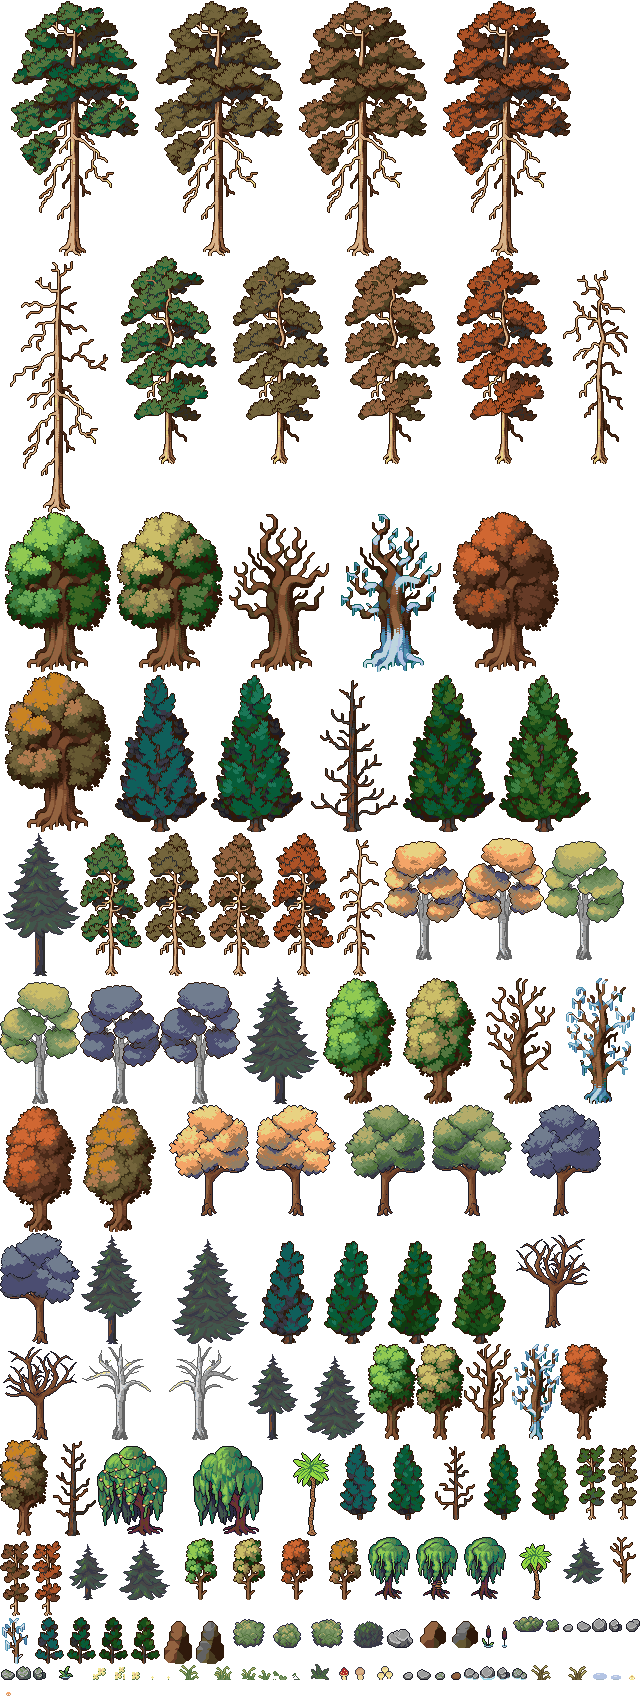
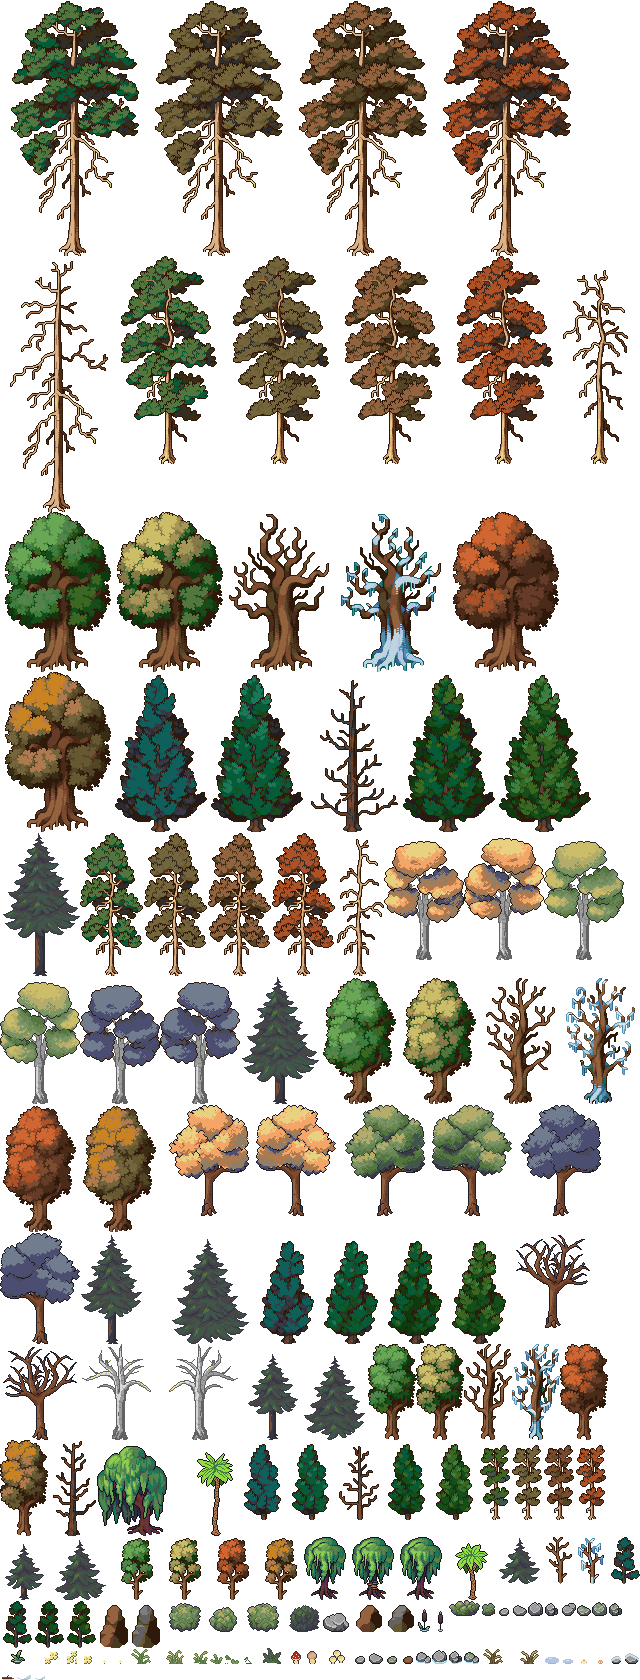
Overworld: snow details, shore-only water stones, darker broadleaf greens
- Snow: snow-capped pebbles, a fallen stick and snow mounds replace the
  dead-grass tufts; ice patches rarer.
- Water stones only within 2 tiles of land, at 1% of those tiles.
- The lantern-hung willow is out of the atlas and the wetland pool.
- Pixel Crawler's broadleaf greens go one palette step darker
  (#91ca51 -> #69a754, #69a754 -> #55834c).

diff --git a/src/render/overworld_sprites.hpp b/src/render/overworld_sprites.hpp
@@ -102,7 +102,6 @@ enum Id : int {
   PC3_S5_TAN,
   PC3_S5_RUST,
   PC3_S5_BARE,
-  WILLOW_LIT,
   WILLOW,
   WILLOW_S_A,
   WILLOW_S_B,
@@ -160,6 +159,11 @@ enum Id : int {
   DECAL_ICE_B,
   DECAL_SHELL,
   DECAL_SHELL_PINK,
+  DECAL_PEBBLE_SNOW,
+  DECAL_PEBBLES_SNOW,
+  DECAL_STICK,
+  DECAL_MOUND_A,
+  DECAL_MOUND_B,
   COUNT
 };
 
@@ -188,17 +192,17 @@ inline constexpr Frame kFrames[COUNT] = {
     {15, 61, 5, 8, 5}, // FIR_1
     {5, 77, 4, 7, 7}, // FIR_2
     {15, 84, 4, 6, 8}, // FIR_3
-    {4, 96, 3, 4, 10}, // FIR_4
+    {0, 96, 3, 4, 10}, // FIR_4
     {9, 77, 7, 7, 7}, // FIR_DARK_0
     {19, 84, 4, 6, 8}, // FIR_DARK_1
-    {7, 96, 4, 4, 10}, // FIR_DARK_2
-    {35, 96, 3, 3, 10}, // FIR_DARK_3
-    {11, 96, 3, 4, 10}, // PC1_S2_GREEN
-    {14, 96, 3, 4, 10}, // PC1_S2_TAN
-    {38, 96, 2, 3, 10}, // PC1_S2_BARE
-    {0, 101, 2, 3, 11}, // PC1_S2_FROZEN
-    {17, 96, 3, 4, 10}, // PC1_S2_ORANGE
-    {20, 96, 3, 4, 10}, // PC1_S2_AMBER
+    {3, 96, 4, 4, 10}, // FIR_DARK_2
+    {31, 96, 3, 3, 10}, // FIR_DARK_3
+    {7, 96, 3, 4, 10}, // PC1_S2_GREEN
+    {10, 96, 3, 4, 10}, // PC1_S2_TAN
+    {34, 96, 2, 3, 10}, // PC1_S2_BARE
+    {36, 96, 2, 3, 10}, // PC1_S2_FROZEN
+    {13, 96, 3, 4, 10}, // PC1_S2_ORANGE
+    {16, 96, 3, 4, 10}, // PC1_S2_AMBER
     {23, 84, 3, 6, 8}, // PC1_S3_GREEN
     {26, 84, 3, 6, 8}, // PC1_S3_TAN
     {29, 84, 3, 6, 8}, // PC1_S3_BARE
@@ -217,15 +221,15 @@ inline constexpr Frame kFrames[COUNT] = {
     {21, 32, 7, 10, 2}, // PC1_S5_FROZEN
     {28, 32, 7, 10, 2}, // PC1_S5_ORANGE
     {0, 42, 7, 10, 3}, // PC1_S5_AMBER
-    {2, 101, 2, 3, 11}, // PC2_S2_TEAL
-    {4, 101, 2, 3, 11}, // PC2_S2_TEAL_B
-    {6, 101, 2, 3, 11}, // PC2_S2_GREEN
-    {8, 101, 2, 3, 11}, // PC2_S2_GREEN_B
-    {21, 90, 3, 5, 9}, // PC2_S3_TEAL
-    {24, 90, 3, 5, 9}, // PC2_S3_TEAL_B
-    {27, 90, 3, 5, 9}, // PC2_S3_BARE
-    {30, 90, 3, 5, 9}, // PC2_S3_GREEN
-    {33, 90, 3, 5, 9}, // PC2_S3_GREEN_B
+    {38, 96, 2, 3, 10}, // PC2_S2_TEAL
+    {0, 100, 2, 3, 11}, // PC2_S2_TEAL_B
+    {2, 100, 2, 3, 11}, // PC2_S2_GREEN
+    {4, 100, 2, 3, 11}, // PC2_S2_GREEN_B
+    {15, 90, 3, 5, 9}, // PC2_S3_TEAL
+    {18, 90, 3, 5, 9}, // PC2_S3_TEAL_B
+    {21, 90, 3, 5, 9}, // PC2_S3_BARE
+    {24, 90, 3, 5, 9}, // PC2_S3_GREEN
+    {27, 90, 3, 5, 9}, // PC2_S3_GREEN_B
     {16, 77, 4, 7, 7}, // PC2_S4_TEAL
     {20, 77, 4, 7, 7}, // PC2_S4_TEAL_B
     {3, 90, 3, 6, 9}, // PC2_S4_BARE
@@ -236,10 +240,10 @@ inline constexpr Frame kFrames[COUNT] = {
     {19, 42, 6, 10, 3}, // PC2_S5_BARE
     {25, 42, 6, 10, 3}, // PC2_S5_GREEN
     {31, 42, 6, 10, 3}, // PC2_S5_GREEN_B
-    {36, 90, 2, 5, 9}, // PC3_S2_GREEN
-    {38, 90, 2, 5, 9}, // PC3_S2_OLIVE
-    {0, 96, 2, 5, 10}, // PC3_S2_TAN
-    {2, 96, 2, 5, 10}, // PC3_S2_RUST
+    {30, 90, 2, 5, 9}, // PC3_S2_GREEN
+    {32, 90, 2, 5, 9}, // PC3_S2_OLIVE
+    {34, 90, 2, 5, 9}, // PC3_S2_TAN
+    {36, 90, 2, 5, 9}, // PC3_S2_RUST
     {5, 52, 4, 9, 4}, // PC3_S3_GREEN
     {9, 52, 4, 9, 4}, // PC3_S3_OLIVE
     {13, 52, 4, 9, 4}, // PC3_S3_TAN
@@ -255,64 +259,68 @@ inline constexpr Frame kFrames[COUNT] = {
     {18, 0, 9, 16, 0}, // PC3_S5_TAN
     {27, 0, 9, 16, 0}, // PC3_S5_RUST
     {0, 16, 7, 16, 1}, // PC3_S5_BARE
-    {6, 90, 6, 6, 9}, // WILLOW_LIT
-    {12, 90, 6, 6, 9}, // WILLOW
-    {23, 96, 3, 4, 10}, // WILLOW_S_A
-    {26, 96, 3, 4, 10}, // WILLOW_S_B
-    {29, 96, 3, 4, 10}, // WILLOW_S_C
-    {18, 90, 3, 6, 9}, // PALM_TALL
-    {32, 96, 3, 4, 10}, // PALM_SHORT
-    {14, 101, 3, 2, 11}, // BUSH_A
-    {17, 101, 2, 2, 11}, // BUSH_B
-    {19, 101, 3, 2, 11}, // BUSH_C
-    {22, 101, 2, 2, 11}, // BUSH_D
-    {32, 101, 2, 1, 11}, // BUSH_LOW
-    {34, 101, 1, 1, 11}, // BUSH_SMALL
-    {35, 101, 1, 1, 11}, // ROCK_GREY_0
-    {36, 101, 1, 1, 11}, // ROCK_GREY_1
-    {37, 101, 1, 1, 11}, // ROCK_GREY_2
-    {38, 101, 1, 1, 11}, // ROCK_GREY_3
-    {39, 101, 1, 1, 11}, // ROCK_GREY_4
-    {24, 101, 2, 2, 11}, // ROCK_GREY_BIG
-    {0, 104, 1, 1, 12}, // ROCK_MOSS_1
-    {1, 104, 1, 1, 12}, // ROCK_MOSS_2
-    {2, 104, 1, 1, 12}, // ROCK_MOSS_3
-    {10, 101, 2, 3, 11}, // BOULDER_BROWN
-    {26, 101, 2, 2, 11}, // BOULDER_BROWN_LOW
-    {12, 101, 2, 3, 11}, // BOULDER_GREY
-    {28, 101, 2, 2, 11}, // BOULDER_GREY_LOW
-    {30, 101, 1, 2, 11}, // CATTAIL_TALL
-    {31, 101, 1, 2, 11}, // CATTAIL_SHORT
-    {3, 104, 2, 1, 12}, // SWAMP_PLANT
-    {5, 104, 2, 1, 12}, // DECAL_FLOWERS_A
-    {7, 104, 1, 1, 12}, // DECAL_FLOWERS_B
-    {8, 104, 1, 1, 12}, // DECAL_FLOWER
-    {9, 104, 1, 1, 12}, // DECAL_STARS_A
-    {10, 104, 1, 1, 12}, // DECAL_STARS_B
-    {11, 104, 2, 1, 12}, // DECAL_TUFT_A
-    {13, 104, 2, 1, 12}, // DECAL_TUFT_B
-    {15, 104, 1, 1, 12}, // DECAL_PATCH_A
-    {16, 104, 1, 1, 12}, // DECAL_PATCH_B
-    {17, 104, 1, 1, 12}, // DECAL_PATCH_C
-    {18, 104, 1, 1, 12}, // DECAL_TWIGS
-    {19, 104, 2, 1, 12}, // DECAL_FERN
-    {21, 104, 1, 1, 12}, // DECAL_MUSHROOM_RED
-    {22, 104, 1, 1, 12}, // DECAL_MUSHROOM_BROWN
-    {23, 104, 2, 1, 12}, // DECAL_MUSHROOMS
-    {25, 104, 1, 1, 12}, // DECAL_PEBBLE_GREY
-    {26, 104, 1, 1, 12}, // DECAL_PEBBLES_GREY
-    {27, 104, 1, 1, 12}, // DECAL_PEBBLE_MOSS
-    {28, 104, 1, 1, 12}, // DECAL_PEBBLE_BROWN
-    {29, 104, 1, 1, 12}, // DECAL_STONE_WATER_A
-    {30, 104, 1, 1, 12}, // DECAL_STONE_WATER_B
-    {31, 104, 1, 1, 12}, // DECAL_STONE_WATER_C
-    {32, 104, 1, 1, 12}, // DECAL_STONE_WATER_MOSS
-    {33, 104, 2, 1, 12}, // DECAL_DEAD_TUFT_A
-    {35, 104, 2, 1, 12}, // DECAL_DEAD_TUFT_B
-    {37, 104, 1, 1, 12}, // DECAL_ICE_A
-    {38, 104, 1, 1, 12}, // DECAL_ICE_B
-    {39, 104, 1, 1, 12}, // DECAL_SHELL
-    {0, 105, 1, 1, 13}, // DECAL_SHELL_PINK
+    {6, 90, 6, 6, 9}, // WILLOW
+    {19, 96, 3, 4, 10}, // WILLOW_S_A
+    {22, 96, 3, 4, 10}, // WILLOW_S_B
+    {25, 96, 3, 4, 10}, // WILLOW_S_C
+    {12, 90, 3, 6, 9}, // PALM_TALL
+    {28, 96, 3, 4, 10}, // PALM_SHORT
+    {10, 100, 3, 2, 11}, // BUSH_A
+    {13, 100, 2, 2, 11}, // BUSH_B
+    {15, 100, 3, 2, 11}, // BUSH_C
+    {18, 100, 2, 2, 11}, // BUSH_D
+    {28, 100, 2, 1, 11}, // BUSH_LOW
+    {30, 100, 1, 1, 11}, // BUSH_SMALL
+    {31, 100, 1, 1, 11}, // ROCK_GREY_0
+    {32, 100, 1, 1, 11}, // ROCK_GREY_1
+    {33, 100, 1, 1, 11}, // ROCK_GREY_2
+    {34, 100, 1, 1, 11}, // ROCK_GREY_3
+    {35, 100, 1, 1, 11}, // ROCK_GREY_4
+    {20, 100, 2, 2, 11}, // ROCK_GREY_BIG
+    {36, 100, 1, 1, 11}, // ROCK_MOSS_1
+    {37, 100, 1, 1, 11}, // ROCK_MOSS_2
+    {38, 100, 1, 1, 11}, // ROCK_MOSS_3
+    {6, 100, 2, 3, 11}, // BOULDER_BROWN
+    {22, 100, 2, 2, 11}, // BOULDER_BROWN_LOW
+    {8, 100, 2, 3, 11}, // BOULDER_GREY
+    {24, 100, 2, 2, 11}, // BOULDER_GREY_LOW
+    {26, 100, 1, 2, 11}, // CATTAIL_TALL
+    {27, 100, 1, 2, 11}, // CATTAIL_SHORT
+    {0, 103, 2, 1, 12}, // SWAMP_PLANT
+    {2, 103, 2, 1, 12}, // DECAL_FLOWERS_A
+    {4, 103, 1, 1, 12}, // DECAL_FLOWERS_B
+    {5, 103, 1, 1, 12}, // DECAL_FLOWER
+    {6, 103, 1, 1, 12}, // DECAL_STARS_A
+    {7, 103, 1, 1, 12}, // DECAL_STARS_B
+    {8, 103, 2, 1, 12}, // DECAL_TUFT_A
+    {10, 103, 2, 1, 12}, // DECAL_TUFT_B
+    {12, 103, 1, 1, 12}, // DECAL_PATCH_A
+    {13, 103, 1, 1, 12}, // DECAL_PATCH_B
+    {14, 103, 1, 1, 12}, // DECAL_PATCH_C
+    {15, 103, 1, 1, 12}, // DECAL_TWIGS
+    {16, 103, 2, 1, 12}, // DECAL_FERN
+    {18, 103, 1, 1, 12}, // DECAL_MUSHROOM_RED
+    {19, 103, 1, 1, 12}, // DECAL_MUSHROOM_BROWN
+    {20, 103, 2, 1, 12}, // DECAL_MUSHROOMS
+    {22, 103, 1, 1, 12}, // DECAL_PEBBLE_GREY
+    {23, 103, 1, 1, 12}, // DECAL_PEBBLES_GREY
+    {24, 103, 1, 1, 12}, // DECAL_PEBBLE_MOSS
+    {25, 103, 1, 1, 12}, // DECAL_PEBBLE_BROWN
+    {26, 103, 1, 1, 12}, // DECAL_STONE_WATER_A
+    {27, 103, 1, 1, 12}, // DECAL_STONE_WATER_B
+    {28, 103, 1, 1, 12}, // DECAL_STONE_WATER_C
+    {29, 103, 1, 1, 12}, // DECAL_STONE_WATER_MOSS
+    {30, 103, 2, 1, 12}, // DECAL_DEAD_TUFT_A
+    {32, 103, 2, 1, 12}, // DECAL_DEAD_TUFT_B
+    {34, 103, 1, 1, 12}, // DECAL_ICE_A
+    {35, 103, 1, 1, 12}, // DECAL_ICE_B
+    {36, 103, 1, 1, 12}, // DECAL_SHELL
+    {37, 103, 1, 1, 12}, // DECAL_SHELL_PINK
+    {38, 103, 1, 1, 12}, // DECAL_PEBBLE_SNOW
+    {39, 103, 1, 1, 12}, // DECAL_PEBBLES_SNOW
+    {0, 104, 1, 1, 13}, // DECAL_STICK
+    {1, 104, 1, 1, 13}, // DECAL_MOUND_A
+    {2, 104, 1, 1, 13}, // DECAL_MOUND_B
 };
 
 } // namespace owsprite

diff --git a/tools/build_overworld_sheets.py b/tools/build_overworld_sheets.py
@@ -186,7 +186,7 @@ PROPS = (
     + boxes("pc3_s4", [("PC3_S4_BARE", (202, 14, 65, 194))])
     + grid_frames("pc3_s5", 128, 256, [["PC3_S5_GREEN", "PC3_S5_OLIVE"], ["PC3_S5_TAN", "PC3_S5_RUST"]])
     + boxes("pc3_s5", [("PC3_S5_BARE", (271, 5, 98, 251))])
-    + boxes("willow", [("WILLOW_LIT", (0, 0, 80, 96)), ("WILLOW", (80, 0, 80, 96)),
+    + boxes("willow", [("WILLOW", (80, 0, 80, 96)),  # x < 80: the lantern-hung willow, not used
                        ("WILLOW_S_A", (16, 96, 48, 64)), ("WILLOW_S_B", (64, 96, 48, 64)), ("WILLOW_S_C", (112, 96, 48, 64))])
     + boxes("palm", [("PALM_TALL", (53, 12, 36, 84)), ("PALM_SHORT", (7, 39, 33, 57))])
     + boxes("lb_bush", [("BUSH_A", (16, 99, 32, 29)), ("BUSH_B", (81, 103, 28, 25)), ("BUSH_C", (16, 147, 32, 29)),
@@ -212,16 +212,59 @@ PROPS = (
                        ("DECAL_STONE_WATER_C", (2, 66, 13, 13)), ("DECAL_STONE_WATER_MOSS", (49, 35, 15, 12))])
     + boxes("gen", [("DECAL_DEAD_TUFT_A", (0, 0, 20, 15)), ("DECAL_DEAD_TUFT_B", (24, 0, 19, 14)),
                     ("DECAL_ICE_A", (48, 0, 14, 7)), ("DECAL_ICE_B", (64, 0, 10, 5)),
-                    ("DECAL_SHELL", (80, 0, 6, 5)), ("DECAL_SHELL_PINK", (88, 0, 5, 4))])
+                    ("DECAL_SHELL", (80, 0, 6, 5)), ("DECAL_SHELL_PINK", (88, 0, 5, 4)),
+                    ("DECAL_PEBBLE_SNOW", (96, 0, 10, 8)), ("DECAL_PEBBLES_SNOW", (112, 0, 14, 11)),
+                    ("DECAL_STICK", (128, 0, 12, 5)), ("DECAL_MOUND_A", (144, 0, 14, 7)),
+                    ("DECAL_MOUND_B", (160, 0, 10, 5))])
 )
+# Per-sprite recolours after quantizing. Pixel Crawler's broadleaf greens
+# are a lime that glows against every other tree: one step darker each.
+PROP_RECOLOUR = {f"PC1_S{s}_GREEN": {"#91ca51": "#69a754", "#69a754": "#55834c"} for s in (2, 3, 4, 5)}
 ATLAS_TILES = 40  # atlas width in tiles
 
 
+def snow_cap(rock):
+    """A pebble under snow: each column's top three pixels become a pale
+    outline, snow, and the snow's shadow."""
+    out = rock.copy()
+    out[out[..., 3] < 128] = 0
+    for x in range(out.shape[1]):
+        ys = np.nonzero(out[:, x, 3] > 0)[0]
+        for k, y in enumerate(ys[:3]):
+            out[y, x, :3] = hexrgb(("#a6b7c6", "#dfe3ed", "#bdd5de")[k])
+    return out
+
+
+def snow_mound(w, h):
+    """A small heap of snow. Its top is the ground's own white, so it shows
+    only by its shaded side and a darker foot."""
+    yy, xx = np.mgrid[0:h, 0:w]
+    u, v = (xx - (w - 1) / 2) / (w / 2), (yy - (h - 1) / 2) / (h / 2)
+    inside = u * u + v * v <= 1.0
+    below = np.zeros_like(inside)
+    below[:-1] = inside[1:]
+    a = np.zeros((h, w, 4), np.uint8)
+    a[inside & (u + 0.7 * v > 0.45)] = (*hexrgb("#bdd5de"), 255)
+    a[inside & ~below & (v > 0)] = (*hexrgb("#bdd5de"), 255)
+    a[inside & ~below & (v > 0.4) & (u > -0.3)] = (*hexrgb("#a6b7c6"), 255)
+    return a
+
+
+def pixels(rows, colours):
+    """A tiny sprite from strings; '.' (or any unlisted char) is clear."""
+    a = np.zeros((len(rows), len(rows[0]), 4), np.uint8)
+    for y, row in enumerate(rows):
+        for x, c in enumerate(row):
+            if c in colours:
+                a[y, x] = (*hexrgb(colours[c]), 255)
+    return a
+
+
 def generated_decals(src):
-    """Decals no pack draws: dead grass poking through snow (LightBorne's
-    tufts, each green moved to the straw tan of the same lightness), ice
-    patches, and two beach shells."""
-    g = np.zeros((16, 96, 4), np.uint8)
+    """Decals no pack draws: dead grass (LightBorne's tufts, each green moved
+    to the straw tan of the same lightness), ice patches, two beach shells,
+    and the snow set - snow-capped pebbles, a fallen stick, snow mounds."""
+    g = np.zeros((16, 176, 4), np.uint8)
     straw = [hexrgb(h) for h in ("#544527", "#74653c", "#96894e", "#b4ac6a")]
     straw_L = srgb_to_oklab(np.array(straw, np.uint8))[:, 0]
     for (x0, y0, w, h), dx in (((14, 64, 20, 15), 0), ((15, 80, 19, 14), 24)):
@@ -255,6 +298,13 @@ def generated_decals(src):
             if c == "#":
                 pk[y, x] = (*(pink if y < 2 else shade), 255)
     g[0:4, 88:93] = pk
+    for (x0, y0, w, h), dx in (((3, 7, 10, 8), 96), ((17, 4, 14, 11), 112)):
+        g[0:h, dx:dx + w] = snow_cap(src["lb_rock"][y0:y0 + h, x0:x0 + w])
+    g[0:5, 128:140] = pixels(("......L.....", ".....D......", "LLLLLDLLLL..",
+                              "DDDDDDDDDDLL", ".sssssssss.."),
+                             {"L": "#7d4c2e", "D": "#4a2a19", "s": "#bdd5de"})
+    g[0:7, 144:158] = snow_mound(14, 7)
+    g[0:5, 160:170] = snow_mound(10, 5)
     return g
 
 
@@ -548,6 +598,8 @@ def props_atlas(src):
         a = src[sheet][y0:y1, x0:x1].copy()
         a[a[..., 3] < 128] = 0  # LightBorne's faint drop shadows read as a box halo
         a = main_body(a)
+        if name in PROP_RECOLOUR:
+            a = recolour(a, PROP_RECOLOUR[name])
         ys, xs = np.nonzero(a[..., 3] > 0)
         a = a[ys.min():ys.max() + 1, xs.min():xs.max() + 1]
         h, w = a.shape[:2]

diff --git a/src/render/overworld_renderer.cpp b/src/render/overworld_renderer.cpp
@@ -103,8 +103,8 @@ constexpr Pick kForestTrees[] = {
     {PC3_S3_GREEN, 3},  {PC3_S3_OLIVE, 1},  {PC3_S4_GREEN, 1},   {PC3_S4_OLIVE, 1},
     {PC3_S5_GREEN, 1},  {PC3_S5_OLIVE, 1},  {FIR_0, 2},          {FIR_1, 2},
     {FIR_2, 2},         {PC1_S3_TAN, 1},    {PC3_S3_TAN, 1}};
-constexpr Pick kWetlandTrees[] = {{WILLOW_LIT, 1}, {WILLOW, 2},     {WILLOW_S_A, 2},
-                                  {WILLOW_S_B, 2}, {WILLOW_S_C, 2}};
+constexpr Pick kWetlandTrees[] = {{WILLOW, 2}, {WILLOW_S_A, 2}, {WILLOW_S_B, 2},
+                                  {WILLOW_S_C, 2}};
 constexpr Pick kBeachTrees[] = {{PALM_TALL, 1}, {PALM_SHORT, 1}};
 constexpr Pick kMountainPines[] = {
     {PC2_S2_TEAL, 2},   {PC2_S2_TEAL_B, 2}, {PC2_S2_GREEN, 2},   {PC2_S2_GREEN_B, 2},
@@ -173,8 +173,10 @@ constexpr Pick kWetlandDecals[] = {{DECAL_PATCH_A, 2}, {DECAL_PATCH_C, 2}, {DECA
                                    {DECAL_MUSHROOM_BROWN, 1}, {DECAL_PEBBLE_MOSS, 1}};
 constexpr Pick kMountainDecals[] = {{DECAL_PEBBLE_GREY, 3}, {DECAL_PEBBLES_GREY, 3},
                                     {DECAL_PEBBLE_BROWN, 2}, {DECAL_DEAD_TUFT_B, 1}};
-constexpr Pick kSnowDecals[] = {{DECAL_DEAD_TUFT_A, 3}, {DECAL_DEAD_TUFT_B, 3}, {DECAL_ICE_A, 2},
-                                {DECAL_ICE_B, 2},       {DECAL_PEBBLE_GREY, 1}};
+constexpr Pick kSnowDecals[] = {{DECAL_PEBBLE_SNOW, 3}, {DECAL_PEBBLES_SNOW, 2},
+                                {DECAL_STICK, 2},       {DECAL_MOUND_A, 3},
+                                {DECAL_MOUND_B, 3},     {DECAL_ICE_A, 1},
+                                {DECAL_ICE_B, 1}};
 constexpr Pick kBeachDecals[] = {{DECAL_SHELL, 3}, {DECAL_SHELL_PINK, 2}, {DECAL_PEBBLE_GREY, 1}};
 constexpr Pick kFreshWaterDecals[] = {{DECAL_STONE_WATER_A, 2}, {DECAL_STONE_WATER_B, 2},
                                       {DECAL_STONE_WATER_C, 2}, {DECAL_STONE_WATER_MOSS, 1}};
@@ -192,7 +194,9 @@ DecalOdds decalOdds(Biome b, uint8_t shade) {
   case Biome::MOUNTAIN: return {0.10f, kMountainDecals};
   case Biome::SNOW: return {0.08f, kSnowDecals};
   case Biome::BEACH: return {0.04f, kBeachDecals};
-  case Biome::LAKE: case Biome::RIVER: return {0.015f, kFreshWaterDecals};
+  // Of the water tiles near a shore only (drawDecals): stones in mid-lake
+  // read as litter.
+  case Biome::LAKE: case Biome::RIVER: return {0.01f, kFreshWaterDecals};
   default: return {0.0f, {}};
   }
 }
@@ -307,21 +311,30 @@ void OverworldRenderer::renderTerrain(const Overworld &world,
 }
 
 // Ground details sit flat on the terrain, so they draw here rather than in
-// the DrawQueue. Only on a tile whose row neighbours share its biome - a tuft
-// two tiles wide would otherwise hang over a shore or a biome edge - and
-// never under a prop.
+// the DrawQueue. A detail wider than its tile needs row neighbours of its own
+// biome - a tuft would otherwise hang over a shore or a biome edge - and none
+// goes under a prop. Stones in water keep near a shore.
 void OverworldRenderer::drawDecals(int x0, int y0, int w, int h) const {
   const uint32_t seed = m_world->island().seed();
+  auto nearLand = [&](int x, int y) {
+    for (int dy = -2; dy <= 2; ++dy)
+      for (int dx = -2; dx <= 2; ++dx)
+        if (!isWater(m_world->biomeAt(x + dx, y + dy)))
+          return true;
+    return false;
+  };
   for (int j = 1; j <= h; ++j) {
     for (int i = 1; i <= w; ++i) {
       const Cell &c = m_cells[j * m_cellsW + i];
-      if (m_cells[j * m_cellsW + i - 1].biome != c.biome ||
-          m_cells[j * m_cellsW + i + 1].biome != c.biome)
-        continue;
       const int x = x0 - 1 + i, y = y0 - 1 + j;
       owsprite::Id id = decalFor(c.biome, c.shade,
                                  noise::hash(m_world->wrapX(x), m_world->wrapY(y), seed ^ kDecalSalt));
       if (id == owsprite::COUNT || m_world->propAt(x, y) != PropType::NONE)
+        continue;
+      if (owsprite::kFrames[id].w > 1 && (m_cells[j * m_cellsW + i - 1].biome != c.biome ||
+                                          m_cells[j * m_cellsW + i + 1].biome != c.biome))
+        continue;
+      if (isWater(c.biome) && !nearLand(x, y))
         continue;
       const owsprite::Frame &f = owsprite::kFrames[id];
       Rectangle src = grid::srcTile(f.col, f.row, f.w, f.h);

diff --git a/tests/test_overworld.cpp b/tests/test_overworld.cpp
@@ -381,7 +381,7 @@ TEST(OverworldRendererTest, SpeciesFollowTheBiome) {
     Id palm = OverworldRenderer::spriteFor(PropType::TREE, Biome::BEACH, (uint8_t)v);
     EXPECT_TRUE(palm == PALM_TALL || palm == PALM_SHORT);
     Id willow = OverworldRenderer::spriteFor(PropType::TREE, Biome::WETLAND, (uint8_t)v);
-    EXPECT_TRUE(willow >= WILLOW_LIT && willow <= WILLOW_S_C);
+    EXPECT_TRUE(willow >= WILLOW && willow <= WILLOW_S_C);
   }
 }
 
